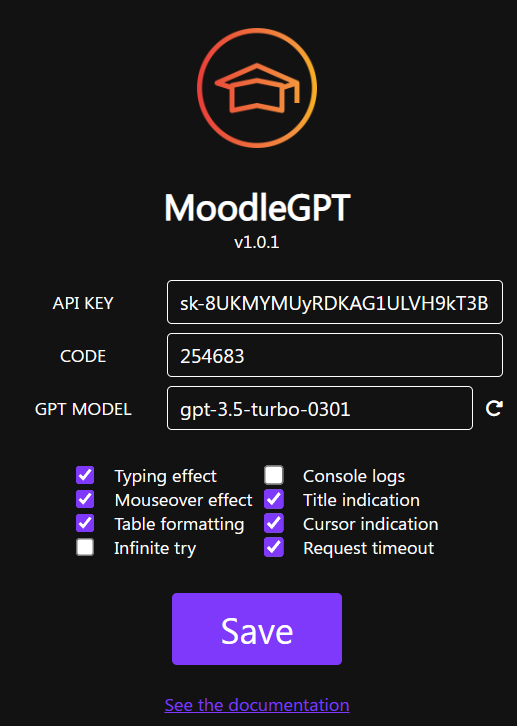
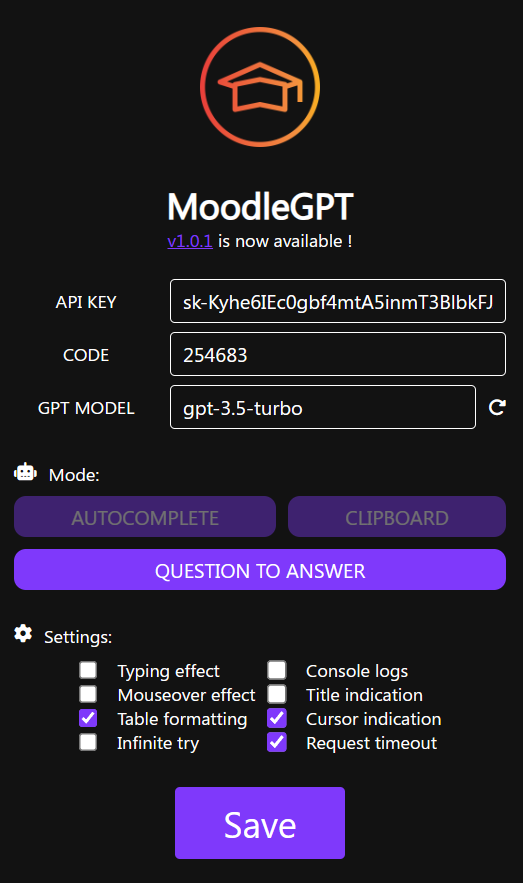
v1.0.2

diff --git a/extension/popup/js/index.js b/extension/popup/js/index.js
@@ -1,6 +1,7 @@
 const saveBtn = document.querySelector(".save");
 const message = document.querySelector("#message");
 
+/* inputs id */
 const inputsText = ["apiKey", "code", "model"];
 const inputsCheckbox = [
   "logs",
@@ -13,6 +14,21 @@ const inputsCheckbox = [
   "timeout",
 ];
 
+const mode = document.querySelector("#mode");
+const modes = mode.querySelectorAll("button");
+let actualMode = "autocomplete";
+/* inputs id that need to be disabled for a specific mode */
+const disabledForThisMode = {
+  autocomplete: [],
+  clipboard: ["typing", "mouseover"],
+  "question-to-answer": ["typing", "infinite", "mouseover"],
+};
+
+/**
+ * Show message into the popup
+ * @param {string} messageTxt
+ * @param {boolean} valide
+ */
 function showMessage(messageTxt, valide) {
   message.style.color = valide ? "limegreen" : "red";
   message.textContent = messageTxt;
@@ -20,15 +36,48 @@ function showMessage(messageTxt, valide) {
   setTimeout(() => (message.style.display = "none"), 5000);
 }
 
-//save the configuration
+/**
+ * Handle when a mode change to show specific input
+ */
+function handleModeChange() {
+  const needDisable = disabledForThisMode[actualMode];
+  const dontNeedDisable = inputsCheckbox.filter(
+    (input) => !needDisable.includes(input)
+  );
+  for (const id of needDisable) {
+    document.querySelector("#" + id).parentElement.style.display = "none";
+  }
+  for (const id of dontNeedDisable) {
+    document.querySelector("#" + id).parentElement.style.display = null;
+  }
+}
+
+/* Mode handler */
+modes.forEach((button) => {
+  button.addEventListener("click", function () {
+    const value = button.value;
+    actualMode = value;
+    for (const mode of modes) {
+      if (mode.value !== value) {
+        mode.classList.add("not-selected");
+      } else {
+        mode.classList.remove("not-selected");
+      }
+    }
+    handleModeChange();
+  });
+});
+
+/* Save the configuration */
 saveBtn.addEventListener("click", function () {
   const [apiKey, code, model] = inputsText.map((selector) =>
     document.querySelector("#" + selector).value.trim()
   );
   const [logs, title, cursor, typing, mouseover, infinite, table, timeout] =
-    inputsCheckbox.map(
-      (selector) => document.querySelector("#" + selector).checked
-    );
+    inputsCheckbox.map((selector) => {
+      const element = document.querySelector("#" + selector);
+      return element.checked && element.parentElement.style.display !== "none";
+    });
 
   if (!apiKey || !code || !model) {
     showMessage("Please complete all the form");
@@ -53,31 +102,16 @@ saveBtn.addEventListener("click", function () {
       infinite,
       table,
       timeout,
+      mode: actualMode,
     },
   });
 
   showMessage("Configuration saved", true);
 });
 
-//we load back the configuration
-chrome.storage.sync.get(["moodleGPT"]).then(function (storage) {
-  const config = storage.moodleGPT;
-
-  if (config) {
-    inputsText.forEach((key) =>
-      config[key]
-        ? (document.querySelector("#" + key).value = config[key])
-        : null
-    );
-    inputsCheckbox.forEach(
-      (key) => (document.querySelector("#" + key).checked = config[key] || "")
-    );
-  }
-
-  getLastChatGPTVersion();
-});
-
-//getting the last chatgpt version
+/**
+ * Get the last ChatGPT version
+ */
 function getLastChatGPTVersion() {
   const apiKeySelector = document.querySelector("#apiKey");
   const reloadModel = document.querySelector("#reloadModel");
@@ -119,3 +153,33 @@ function getLastChatGPTVersion() {
     }
   });
 }
+
+/* we load back the configuration */
+chrome.storage.sync.get(["moodleGPT"]).then(function (storage) {
+  const config = storage.moodleGPT;
+
+  if (config) {
+    if (config.mode) {
+      actualMode = config.mode;
+      for (const mode of modes) {
+        if (mode.value === config.mode) {
+          mode.classList.remove("not-selected");
+        } else {
+          mode.classList.add("not-selected");
+        }
+      }
+    }
+
+    inputsText.forEach((key) =>
+      config[key]
+        ? (document.querySelector("#" + key).value = config[key])
+        : null
+    );
+    inputsCheckbox.forEach(
+      (key) => (document.querySelector("#" + key).checked = config[key] || "")
+    );
+  }
+
+  handleModeChange();
+  getLastChatGPTVersion();
+});

diff --git a/extension/MoodleGPT.js b/extension/MoodleGPT.js
@@ -382,6 +382,21 @@
               Logs.question(question);
               Logs.response(response);
           }
+          if (config.mode === "clipboard") {
+              return handleClipboard(config, response);
+          }
+          if (config.mode === "question-to-answer") {
+              const questionBackup = form.textContent;
+              const questionContainer = form.querySelector(".qtext");
+              questionContainer.textContent = response;
+              questionContainer.addEventListener("click", function () {
+                  questionContainer.textContent =
+                      questionContainer.textContent === questionBackup
+                          ? response
+                          : questionBackup;
+              });
+              return;
+          }
           const handlers = [
               handleContentEditable,
               handleTextbox,
@@ -393,6 +408,7 @@
               if (handler(config, inputList, response))
                   return;
           }
+          /** In the case we can't auto complete the question */
           handleClipboard(config, response);
       });
   }

diff --git a/extension/popup/js/version.js b/extension/popup/js/version.js
@@ -1,6 +1,10 @@
-const currentVersion = "1.0.1";
+const currentVersion = "1.0.2";
 const versionDisplay = document.querySelector("#version");
 
+/**
+ * Get the last version from the github
+ * @returns
+ */
 async function getLastVersion() {
   const req = await fetch(
     "https://raw.githubusercontent.com/yoannchb-pro/MoodleGPT/main/package.json"
@@ -9,6 +13,12 @@ async function getLastVersion() {
   return rep.version;
 }
 
+/**
+ * Display the version or an update message
+ * @param {string} version
+ * @param {boolean} isCurrent
+ * @returns
+ */
 function setVersion(version, isCurrent = true) {
   if (isCurrent) {
     versionDisplay.textContent = "v" + version;
@@ -24,6 +34,9 @@ function setVersion(version, isCurrent = true) {
   versionDisplay.appendChild(document.createTextNode(" is now available !"));
 }
 
+/**
+ * Check the extension neeed an update or no
+ */
 async function notifyUpdate() {
   const lastVersion = await getLastVersion().catch((err) => {
     console.error(err);

diff --git a/extension/popup/index.html b/extension/popup/index.html
@@ -48,7 +48,28 @@
           title="Provide an api key first"
         ></i>
       </div>
-      <div class="line center" style="margin-top: 1rem">
+      <div class="line mt">
+        <i class="fa-solid fa-robot"></i>
+        <p>Mode:</p>
+      </div>
+      <div class="line">
+        <ul id="mode" class="line center">
+          <li><button value="autocomplete">autocomplete</button></li>
+          <li>
+            <button value="clipboard" class="not-selected">clipboard</button>
+          </li>
+          <li>
+            <button value="question-to-answer" class="not-selected">
+              question to answer
+            </button>
+          </li>
+        </ul>
+      </div>
+      <div class="line mt">
+        <i class="fa-solid fa-gear"></i>
+        <p>Settings:</p>
+      </div>
+      <div class="line center">
         <div class="col">
           <div class="line">
             <input id="typing" type="checkbox" />

diff --git a/src/core/reply.ts b/src/core/reply.ts
@@ -49,6 +49,23 @@ async function reply(
     Logs.response(response);
   }
 
+  if (config.mode === "clipboard") {
+    return handleClipboard(config, response);
+  }
+
+  if (config.mode === "question-to-answer") {
+    const questionBackup = form.textContent;
+    const questionContainer = form.querySelector(".qtext");
+    questionContainer.textContent = response;
+    questionContainer.addEventListener("click", function () {
+      questionContainer.textContent =
+        questionContainer.textContent === questionBackup
+          ? response
+          : questionBackup;
+    });
+    return;
+  }
+
   const handlers = [
     handleContentEditable,
     handleTextbox,
@@ -61,6 +78,7 @@ async function reply(
     if (handler(config, inputList, response)) return;
   }
 
+  /** In the case we can't auto complete the question */
   handleClipboard(config, response);
 }
 

diff --git a/extension/popup/style.css b/extension/popup/style.css
@@ -52,6 +52,7 @@ a {
 
 .line {
   display: flex;
+  flex-direction: row;
   width: 100%;
   gap: 0.5rem;
 }
@@ -96,6 +97,34 @@ a {
   border-radius: 0.2rem;
   font-size: 1.5rem;
   margin-bottom: 0.75rem;
+}
+
+.mt {
+  margin-top: 1rem;
+}
+
+.not-selected {
+  opacity: 0.4;
+}
+
+#mode li {
+  list-style: none;
+  flex-grow: 1;
+}
+
+#mode {
+  flex-wrap: wrap;
+}
+
+#mode button {
+  background-color: var(--btn-color);
+  border: none;
+  text-align: center;
+  padding: 0.3rem 0.75rem;
+  cursor: pointer;
+  width: 100%;
+  border-radius: 0.5rem;
+  text-transform: uppercase;
 }
 
 #version {

diff --git a/src/types/config.d.ts b/src/types/config.d.ts
@@ -10,6 +10,7 @@ type Config = {
   title?: boolean;
   table?: boolean;
   timeout?: boolean;
+  mode?: "autocomplete" | "question-to-answer" | "clipboard";
 };
 
 export default Config;

diff --git a/README.md b/README.md
@@ -10,6 +10,10 @@ This extension allows you to hide CHAT-GPT in a Moodle quiz. You just need to en
 
 I hereby declare that I am not responsible for any misuse or illegal activities carried out using my program. The code is provided for educational and research purposes only, and any use of it outside of these purposes is at the user's own risk.
 
+## Support
+
+Will be a pleasure if you want to supprot this project :). Just right [here](example.com)
+
 ## Update
 
 See [changelog](./CHANGELOG.md)
@@ -22,6 +26,10 @@ If MoodleGPT cannot complete one of your moodle quiz please provide the html cod
 
 > NOTE: This extension only works on Chromium-based browsers like Edge, Chrome, etc. Unfortunately, Firefox requires a click on the extension, which is not very discreet.
 
+<p align="center">
+<img src="./assets/setup.png" alt="Popup" width="300">
+</p>
+
 Go to <b>"Manage my extensions"</b> on your browser, then click on <b>"Load unpacked extension"</b> and select the <b>"extension"</b> folder. Afterwards, click on the extension icon and enter the apiKey obtained from [openai](https://platform.openai.com/) and enter a <b>code</b> that will activate the extension on your moodle page. Finally, click on the <b>reload button</b> next to model (it should give you the last ChatGPT version, otherwise enter it by your self) and click on the save button (The extension need to be configured before entering the moodle quiz).
 
 ## Inject the code into the moodle
@@ -32,10 +40,20 @@ You just need to enter on the keyboard the <b>code</b> you have set into the ext
 
 Type back the <b>code</b> on the keyboard and the code will be removed from the current page.
 
-## Options
+## Mode
 
 <p align="center">
-<img src="./assets/popup.png" alt="Popup"  height="300">
+<img src="./assets/mode.png" alt="Popup" width="300">
+</p>
+
+- <b>Autocomplete:</b> The extension will complete the question for you.
+- <b>Clipboard:</b> The response is copied into the clipboard.
+- <b>Question to answer:</b> The question is converted to the answer and you can click on it to show back the question (or show back the answer).
+
+## Settings
+
+<p align="center">
+<img src="./assets/settings.png" alt="Popup" width="300">
 </p>
 
 - <b>Api key</b>: the openai api key.

diff --git a/TODO.md b/TODO.md
@@ -2,3 +2,5 @@
 
 - [ ] Support multiple input type in a question
 - [ ] Support drag and drop quiz
+- [ ] Summary
+- [ ] Publish on chrome

diff --git a/CHANGELOG.md b/CHANGELOG.md
@@ -1,5 +1,9 @@
 # CHANGELOG
 
+## v1.0.2
+
+- Added `mode`
+
 ## v1.0.1
 
 - Removed langage
